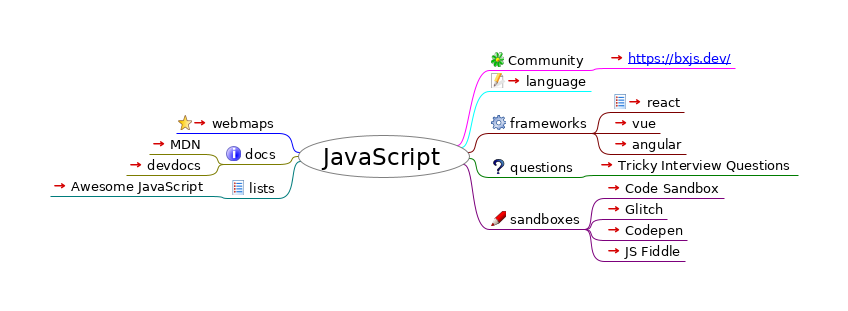
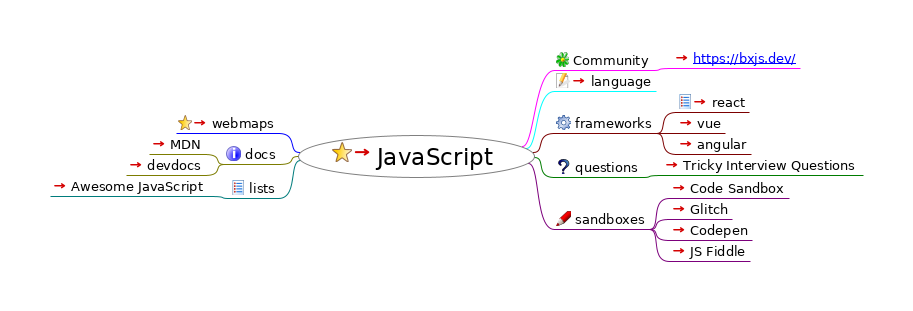
Fix tech link

Changed region(s): [[0.0613, 0.1736, 0.9505, 0.8392]]

diff --git a/index.html b/index.html
@@ -23,30 +23,30 @@
                    };
                };
           
-          --></script></head><body><h1>JavaScript</h1><div style="width:96%;  padding:2%;  margin-bottom:10px;  border: 0px;  text-align:center;  vertical-align:center;"><img src="index.html_files/image.png" style="margin-bottom:10px; &#9;border: 0px; &#9;text-align:center; &#9;vertical-align:center;" alt="Imagemap" usemap="#fm_imagemap" /></div><map name="fm_imagemap" id="fm_imagemap"><area shape="rect" href="#FMID_110073400FM" alt="JavaScript" title="JavaScript" coords="298,135,470,178" />
+          --></script></head><body><h1>JavaScript</h1><div style="width:96%;  padding:2%;  margin-bottom:10px;  border: 0px;  text-align:center;  vertical-align:center;"><img src="index.html_files/image.png" style="margin-bottom:10px; &#9;border: 0px; &#9;text-align:center; &#9;vertical-align:center;" alt="Imagemap" usemap="#fm_imagemap" /></div><map name="fm_imagemap" id="fm_imagemap"><area shape="rect" href="https://melvincarvalho.github.io/tech/" alt="JavaScript" title="JavaScript" coords="298,135,535,178" />
 <area shape="rect" href="https://github.com/solidpayorg/webmaps/" alt="webmaps" title="webmaps" coords="176,115,279,133" />
 <area shape="rect" href="#FMID_1425964050FM" alt="docs" title="docs" coords="224,146,279,164" />
 <area shape="rect" href="https://developer.mozilla.org/en-US/docs/Web/JavaScript" alt="MDN" title="MDN" coords="149,136,205,154" />
 <area shape="rect" href="https://devdocs.io/javascript/" alt="devdocs" title="devdocs" coords="126,157,205,175" />
 <area shape="rect" href="#FMID_829378880FM" alt="lists" title="lists" coords="229,180,279,198" />
 <area shape="rect" href="https://github.com/sorrycc/awesome-javascript" alt="Awesome JavaScript" title="Awesome JavaScript" coords="50,178,210,196" />
-<area shape="rect" href="#FMID_849215328FM" alt="Community" title="Community" coords="489,52,588,70" />
-<area shape="rect" href="https://bxjs.dev/" alt="https://bxjs.dev/" title="https://bxjs.dev/" coords="607,50,735,68" />
-<area shape="rect" href="language.html" alt="language" title="language" coords="489,73,591,91" />
-<area shape="rect" href="#FMID_153818301FM" alt="frameworks" title="frameworks" coords="489,115,592,133" />
-<area shape="rect" href="react/index.html" alt="react" title="react" coords="611,94,684,112" />
-<area shape="rect" href="https://vuejs.org/" alt="vue" title="vue" coords="611,115,660,133" />
-<area shape="rect" href="https://angular.io/" alt="angular" title="angular" coords="611,136,686,154" />
-<area shape="rect" href="#FMID_1450636763FM" alt="questions" title="questions" coords="489,159,578,177" />
-<area shape="rect" href="https://dmitripavlutin.com/simple-but-tricky-javascript-interview-questions/" alt="Tricky Interview Questions" title="Tricky Interview Questions" coords="597,157,798,175" />
-<area shape="rect" href="#FMID_1460537766FM" alt="sandboxes" title="sandboxes" coords="489,211,585,229" />
-<area shape="rect" href="https://codesandbox.io/" alt="Code Sandbox" title="Code Sandbox" coords="604,180,724,198" />
-<area shape="rect" href="https://glitch.com/" alt="Glitch" title="Glitch" coords="604,201,667,219" />
-<area shape="rect" href="https://codepen.io/" alt="Codepen" title="Codepen" coords="604,222,687,240" />
-<area shape="rect" href="https://jsfiddle.net/" alt="JS Fiddle" title="JS Fiddle" coords="604,243,685,261" />
+<area shape="rect" href="#FMID_849215328FM" alt="Community" title="Community" coords="554,52,653,70" />
+<area shape="rect" href="https://bxjs.dev/" alt="https://bxjs.dev/" title="https://bxjs.dev/" coords="672,50,800,68" />
+<area shape="rect" href="language.html" alt="language" title="language" coords="554,73,656,91" />
+<area shape="rect" href="#FMID_153818301FM" alt="frameworks" title="frameworks" coords="554,115,657,133" />
+<area shape="rect" href="react/index.html" alt="react" title="react" coords="676,94,749,112" />
+<area shape="rect" href="https://vuejs.org/" alt="vue" title="vue" coords="676,115,725,133" />
+<area shape="rect" href="https://angular.io/" alt="angular" title="angular" coords="676,136,751,154" />
+<area shape="rect" href="#FMID_1450636763FM" alt="questions" title="questions" coords="554,159,643,177" />
+<area shape="rect" href="https://dmitripavlutin.com/simple-but-tricky-javascript-interview-questions/" alt="Tricky Interview Questions" title="Tricky Interview Questions" coords="662,157,863,175" />
+<area shape="rect" href="#FMID_1460537766FM" alt="sandboxes" title="sandboxes" coords="554,211,650,229" />
+<area shape="rect" href="https://codesandbox.io/" alt="Code Sandbox" title="Code Sandbox" coords="669,180,789,198" />
+<area shape="rect" href="https://glitch.com/" alt="Glitch" title="Glitch" coords="669,201,732,219" />
+<area shape="rect" href="https://codepen.io/" alt="Codepen" title="Codepen" coords="669,222,752,240" />
+<area shape="rect" href="https://jsfiddle.net/" alt="JS Fiddle" title="JS Fiddle" coords="669,243,750,261" />
 </map>
 
-<div class="node"><img src="index.html_files/hide.png" class="hideshow" alt="hide" onClick="toggle(&quot;N65543&quot;)" id="imgN65543" /><a id="FMID_110073400FM" /><div class="nodecontent" style="color:#000000;font-size:150%;">JavaScript</div><div class="content" id="N65543"><div class="node"><img src="index.html_files/leaf.png" class="hideshow" alt="leaf" /><img src="index.html_files/icons/bookmark.svg" alt="bookmark" /> <a id="FMID_634574866FM" /><div class="nodecontent" style="color:#000000;font-size:83%;"><a href="https://github.com/solidpayorg/webmaps/">webmaps</a> <a href="https://github.com/solidpayorg/webmaps/"><img src="index.html_files/ilink.png" alt="User Link" style="border-width:0" /></a></div></div><div class="node"><img src="index.html_files/hide.png" class="hideshow" alt="hide" onClick="toggle(&quot;N66482&quot;)" id="imgN66482" /><img src="index.html_files/icons/info.svg" alt="info" /> <a id="FMID_1425964050FM" /><div class="nodecontent" style="color:#000000;font-size:83%;">docs</div><div class="content" id="N66482"><div class="node"><img src="index.html_files/leaf.png" class="hideshow" alt="leaf" /><a id="FMID_773205118FM" /><div class="nodecontent" style="color:#000000;font-size:83%;"><a href="https://developer.mozilla.org/en-US/docs/Web/JavaScript">MDN</a> <a href="https://developer.mozilla.org/en-US/docs/Web/JavaScript"><img src="index.html_files/ilink.png" alt="User Link" style="border-width:0" /></a></div></div><div class="node"><img src="index.html_files/leaf.png" class="hideshow" alt="leaf" /><a id="FMID_83129282FM" /><div class="nodecontent" style="color:#000000;font-size:83%;"><a href="https://devdocs.io/javascript/">devdocs</a> <a href="https://devdocs.io/javascript/"><img src="index.html_files/ilink.png" alt="User Link" style="border-width:0" /></a></div></div></div></div><div class="node"><img src="index.html_files/hide.png" class="hideshow" alt="hide" onClick="toggle(&quot;N66598&quot;)" id="imgN66598" /><img src="index.html_files/icons/list.svg" alt="list" /> <a id="FMID_829378880FM" /><div class="nodecontent" style="color:#000000;font-size:83%;">lists</div><div class="content" id="N66598"><div class="node"><img src="index.html_files/leaf.png" class="hideshow" alt="leaf" /><a id="FMID_157748484FM" /><div class="nodecontent" style="color:#000000;font-size:83%;"><a href="https://github.com/sorrycc/awesome-javascript">Awesome JavaScript</a> <a href="https://github.com/sorrycc/awesome-javascript"><img src="index.html_files/ilink.png" alt="User Link" style="border-width:0" /></a></div></div></div></div><div class="node"><img src="index.html_files/hide.png" class="hideshow" alt="hide" onClick="toggle(&quot;N66677&quot;)" id="imgN66677" /><img src="index.html_files/icons/licq.svg" alt="licq" /> <a id="FMID_849215328FM" /><div class="nodecontent" style="color:#000000;font-size:83%;">Community</div><div class="content" id="N66677"><div class="node"><img src="index.html_files/leaf.png" class="hideshow" alt="leaf" /><a id="FMID_1384859362FM" /><div class="nodecontent" style="color:#000000;font-size:83%;"><a href="https://bxjs.dev/">
+<div class="node"><img src="index.html_files/hide.png" class="hideshow" alt="hide" onClick="toggle(&quot;N65543&quot;)" id="imgN65543" /><img src="index.html_files/icons/bookmark.svg" alt="bookmark" /> <a id="FMID_110073400FM" /><div class="nodecontent" style="color:#000000;font-size:150%;"><a href="https://melvincarvalho.github.io/tech/">JavaScript</a> <a href="https://melvincarvalho.github.io/tech/"><img src="index.html_files/ilink.png" alt="User Link" style="border-width:0" /></a></div><div class="content" id="N65543"><div class="node"><img src="index.html_files/leaf.png" class="hideshow" alt="leaf" /><img src="index.html_files/icons/bookmark.svg" alt="bookmark" /> <a id="FMID_634574866FM" /><div class="nodecontent" style="color:#000000;font-size:83%;"><a href="https://github.com/solidpayorg/webmaps/">webmaps</a> <a href="https://github.com/solidpayorg/webmaps/"><img src="index.html_files/ilink.png" alt="User Link" style="border-width:0" /></a></div></div><div class="node"><img src="index.html_files/hide.png" class="hideshow" alt="hide" onClick="toggle(&quot;N66488&quot;)" id="imgN66488" /><img src="index.html_files/icons/info.svg" alt="info" /> <a id="FMID_1425964050FM" /><div class="nodecontent" style="color:#000000;font-size:83%;">docs</div><div class="content" id="N66488"><div class="node"><img src="index.html_files/leaf.png" class="hideshow" alt="leaf" /><a id="FMID_773205118FM" /><div class="nodecontent" style="color:#000000;font-size:83%;"><a href="https://developer.mozilla.org/en-US/docs/Web/JavaScript">MDN</a> <a href="https://developer.mozilla.org/en-US/docs/Web/JavaScript"><img src="index.html_files/ilink.png" alt="User Link" style="border-width:0" /></a></div></div><div class="node"><img src="index.html_files/leaf.png" class="hideshow" alt="leaf" /><a id="FMID_83129282FM" /><div class="nodecontent" style="color:#000000;font-size:83%;"><a href="https://devdocs.io/javascript/">devdocs</a> <a href="https://devdocs.io/javascript/"><img src="index.html_files/ilink.png" alt="User Link" style="border-width:0" /></a></div></div></div></div><div class="node"><img src="index.html_files/hide.png" class="hideshow" alt="hide" onClick="toggle(&quot;N66604&quot;)" id="imgN66604" /><img src="index.html_files/icons/list.svg" alt="list" /> <a id="FMID_829378880FM" /><div class="nodecontent" style="color:#000000;font-size:83%;">lists</div><div class="content" id="N66604"><div class="node"><img src="index.html_files/leaf.png" class="hideshow" alt="leaf" /><a id="FMID_157748484FM" /><div class="nodecontent" style="color:#000000;font-size:83%;"><a href="https://github.com/sorrycc/awesome-javascript">Awesome JavaScript</a> <a href="https://github.com/sorrycc/awesome-javascript"><img src="index.html_files/ilink.png" alt="User Link" style="border-width:0" /></a></div></div></div></div><div class="node"><img src="index.html_files/hide.png" class="hideshow" alt="hide" onClick="toggle(&quot;N66683&quot;)" id="imgN66683" /><img src="index.html_files/icons/licq.svg" alt="licq" /> <a id="FMID_849215328FM" /><div class="nodecontent" style="color:#000000;font-size:83%;">Community</div><div class="content" id="N66683"><div class="node"><img src="index.html_files/leaf.png" class="hideshow" alt="leaf" /><a id="FMID_1384859362FM" /><div class="nodecontent" style="color:#000000;font-size:83%;"><a href="https://bxjs.dev/">
     <a http-equiv="content-type" content="text/html; charset=utf-8" href="https://bxjs.dev/">https://bxjs.dev/</a>
-  </a> <a href="https://bxjs.dev/"><img src="index.html_files/ilink.png" alt="User Link" style="border-width:0" /></a></div></div></div></div><div class="node"><img src="index.html_files/leaf.png" class="hideshow" alt="leaf" /><img src="index.html_files/icons/edit.svg" alt="edit" /> <a id="FMID_1566689685FM" /><div class="nodecontent" style="color:#000000;font-size:83%;"><a href="language.html">language</a> <a href="language.html"><img src="index.html_files/ilink.png" alt="User Link" style="border-width:0" /></a></div></div><div class="node"><img src="index.html_files/hide.png" class="hideshow" alt="hide" onClick="toggle(&quot;N66817&quot;)" id="imgN66817" /><img src="index.html_files/icons/executable.svg" alt="executable" /> <a id="FMID_153818301FM" /><div class="nodecontent" style="color:#000000;font-size:83%;">frameworks</div><div class="content" id="N66817"><div class="node"><img src="index.html_files/leaf.png" class="hideshow" alt="leaf" /><img src="index.html_files/icons/list.svg" alt="list" /> <a id="FMID_921980201FM" /><div class="nodecontent" style="color:#000000;font-size:83%;"><a href="react/index.html">react</a> <a href="react/index.html"><img src="index.html_files/ilink.png" alt="User Link" style="border-width:0" /></a></div></div><div class="node"><img src="index.html_files/leaf.png" class="hideshow" alt="leaf" /><a id="FMID_850712897FM" /><div class="nodecontent" style="color:#000000;font-size:83%;"><a href="https://vuejs.org/">vue</a> <a href="https://vuejs.org/"><img src="index.html_files/ilink.png" alt="User Link" style="border-width:0" /></a></div></div><div class="node"><img src="index.html_files/leaf.png" class="hideshow" alt="leaf" /><a id="FMID_101804111FM" /><div class="nodecontent" style="color:#000000;font-size:83%;"><a href="https://angular.io/">angular</a> <a href="https://angular.io/"><img src="index.html_files/ilink.png" alt="User Link" style="border-width:0" /></a></div></div></div></div><div class="node"><img src="index.html_files/hide.png" class="hideshow" alt="hide" onClick="toggle(&quot;N66975&quot;)" id="imgN66975" /><img src="index.html_files/icons/help.svg" alt="help" /> <a id="FMID_1450636763FM" /><div class="nodecontent" style="color:#000000;font-size:83%;">questions</div><div class="content" id="N66975"><div class="node"><img src="index.html_files/leaf.png" class="hideshow" alt="leaf" /><a id="FMID_83102648FM" /><div class="nodecontent" style="color:#000000;font-size:83%;"><a href="https://dmitripavlutin.com/simple-but-tricky-javascript-interview-questions/">Tricky Interview Questions</a> <a href="https://dmitripavlutin.com/simple-but-tricky-javascript-interview-questions/"><img src="index.html_files/ilink.png" alt="User Link" style="border-width:0" /></a></div></div></div></div><div class="node"><img src="index.html_files/hide.png" class="hideshow" alt="hide" onClick="toggle(&quot;N67054&quot;)" id="imgN67054" /><img src="index.html_files/icons/pencil.svg" alt="pencil" /> <a id="FMID_1460537766FM" /><div class="nodecontent" style="color:#000000;font-size:83%;">sandboxes</div><div class="content" id="N67054"><div class="node"><img src="index.html_files/leaf.png" class="hideshow" alt="leaf" /><a id="FMID_899668548FM" /><div class="nodecontent" style="color:#000000;font-size:83%;"><a href="https://codesandbox.io/">Code Sandbox</a> <a href="https://codesandbox.io/"><img src="index.html_files/ilink.png" alt="User Link" style="border-width:0" /></a></div></div><div class="node"><img src="index.html_files/leaf.png" class="hideshow" alt="leaf" /><a id="FMID_1286093091FM" /><div class="nodecontent" style="color:#000000;font-size:83%;"><a href="https://glitch.com/">Glitch</a> <a href="https://glitch.com/"><img src="index.html_files/ilink.png" alt="User Link" style="border-width:0" /></a></div></div><div class="node"><img src="index.html_files/leaf.png" class="hideshow" alt="leaf" /><a id="FMID_942460316FM" /><div class="nodecontent" style="color:#000000;font-size:83%;"><a href="https://codepen.io/">Codepen</a> <a href="https://codepen.io/"><img src="index.html_files/ilink.png" alt="User Link" style="border-width:0" /></a></div></div><div class="node"><img src="index.html_files/leaf.png" class="hideshow" alt="leaf" /><a id="FMID_1150601009FM" /><div class="nodecontent" style="color:#000000;font-size:83%;"><a href="https://jsfiddle.net/">JS Fiddle</a> <a href="https://jsfiddle.net/"><img src="index.html_files/ilink.png" alt="User Link" style="border-width:0" /></a></div></div></div></div></div></div>
+  </a> <a href="https://bxjs.dev/"><img src="index.html_files/ilink.png" alt="User Link" style="border-width:0" /></a></div></div></div></div><div class="node"><img src="index.html_files/leaf.png" class="hideshow" alt="leaf" /><img src="index.html_files/icons/edit.svg" alt="edit" /> <a id="FMID_1566689685FM" /><div class="nodecontent" style="color:#000000;font-size:83%;"><a href="language.html">language</a> <a href="language.html"><img src="index.html_files/ilink.png" alt="User Link" style="border-width:0" /></a></div></div><div class="node"><img src="index.html_files/hide.png" class="hideshow" alt="hide" onClick="toggle(&quot;N66823&quot;)" id="imgN66823" /><img src="index.html_files/icons/executable.svg" alt="executable" /> <a id="FMID_153818301FM" /><div class="nodecontent" style="color:#000000;font-size:83%;">frameworks</div><div class="content" id="N66823"><div class="node"><img src="index.html_files/leaf.png" class="hideshow" alt="leaf" /><img src="index.html_files/icons/list.svg" alt="list" /> <a id="FMID_921980201FM" /><div class="nodecontent" style="color:#000000;font-size:83%;"><a href="react/index.html">react</a> <a href="react/index.html"><img src="index.html_files/ilink.png" alt="User Link" style="border-width:0" /></a></div></div><div class="node"><img src="index.html_files/leaf.png" class="hideshow" alt="leaf" /><a id="FMID_850712897FM" /><div class="nodecontent" style="color:#000000;font-size:83%;"><a href="https://vuejs.org/">vue</a> <a href="https://vuejs.org/"><img src="index.html_files/ilink.png" alt="User Link" style="border-width:0" /></a></div></div><div class="node"><img src="index.html_files/leaf.png" class="hideshow" alt="leaf" /><a id="FMID_101804111FM" /><div class="nodecontent" style="color:#000000;font-size:83%;"><a href="https://angular.io/">angular</a> <a href="https://angular.io/"><img src="index.html_files/ilink.png" alt="User Link" style="border-width:0" /></a></div></div></div></div><div class="node"><img src="index.html_files/hide.png" class="hideshow" alt="hide" onClick="toggle(&quot;N66981&quot;)" id="imgN66981" /><img src="index.html_files/icons/help.svg" alt="help" /> <a id="FMID_1450636763FM" /><div class="nodecontent" style="color:#000000;font-size:83%;">questions</div><div class="content" id="N66981"><div class="node"><img src="index.html_files/leaf.png" class="hideshow" alt="leaf" /><a id="FMID_83102648FM" /><div class="nodecontent" style="color:#000000;font-size:83%;"><a href="https://dmitripavlutin.com/simple-but-tricky-javascript-interview-questions/">Tricky Interview Questions</a> <a href="https://dmitripavlutin.com/simple-but-tricky-javascript-interview-questions/"><img src="index.html_files/ilink.png" alt="User Link" style="border-width:0" /></a></div></div></div></div><div class="node"><img src="index.html_files/hide.png" class="hideshow" alt="hide" onClick="toggle(&quot;N67060&quot;)" id="imgN67060" /><img src="index.html_files/icons/pencil.svg" alt="pencil" /> <a id="FMID_1460537766FM" /><div class="nodecontent" style="color:#000000;font-size:83%;">sandboxes</div><div class="content" id="N67060"><div class="node"><img src="index.html_files/leaf.png" class="hideshow" alt="leaf" /><a id="FMID_899668548FM" /><div class="nodecontent" style="color:#000000;font-size:83%;"><a href="https://codesandbox.io/">Code Sandbox</a> <a href="https://codesandbox.io/"><img src="index.html_files/ilink.png" alt="User Link" style="border-width:0" /></a></div></div><div class="node"><img src="index.html_files/leaf.png" class="hideshow" alt="leaf" /><a id="FMID_1286093091FM" /><div class="nodecontent" style="color:#000000;font-size:83%;"><a href="https://glitch.com/">Glitch</a> <a href="https://glitch.com/"><img src="index.html_files/ilink.png" alt="User Link" style="border-width:0" /></a></div></div><div class="node"><img src="index.html_files/leaf.png" class="hideshow" alt="leaf" /><a id="FMID_942460316FM" /><div class="nodecontent" style="color:#000000;font-size:83%;"><a href="https://codepen.io/">Codepen</a> <a href="https://codepen.io/"><img src="index.html_files/ilink.png" alt="User Link" style="border-width:0" /></a></div></div><div class="node"><img src="index.html_files/leaf.png" class="hideshow" alt="leaf" /><a id="FMID_1150601009FM" /><div class="nodecontent" style="color:#000000;font-size:83%;"><a href="https://jsfiddle.net/">JS Fiddle</a> <a href="https://jsfiddle.net/"><img src="index.html_files/ilink.png" alt="User Link" style="border-width:0" /></a></div></div></div></div></div></div>
 </body></html>

diff --git a/index.mm b/index.mm
@@ -1,6 +1,6 @@
 <map version="freeplane 1.7.0">
 <!--To view this file, download free mind mapping software Freeplane from http://freeplane.sourceforge.net -->
-<node TEXT="JavaScript" FOLDED="false" ID="ID_110073400" CREATED="1570292852860" MODIFIED="1572498420877" ICON_SIZE="16.0 pt" LINK="https://github.com/melvincarvalho/tech" STYLE="oval">
+<node TEXT="JavaScript" FOLDED="false" ID="ID_110073400" CREATED="1570292852860" MODIFIED="1572498570888" ICON_SIZE="16.0 pt" LINK="https://melvincarvalho.github.io/tech/" STYLE="oval">
 <icon BUILTIN="bookmark"/>
 <font SIZE="18"/>
 <hook NAME="MapStyle">
